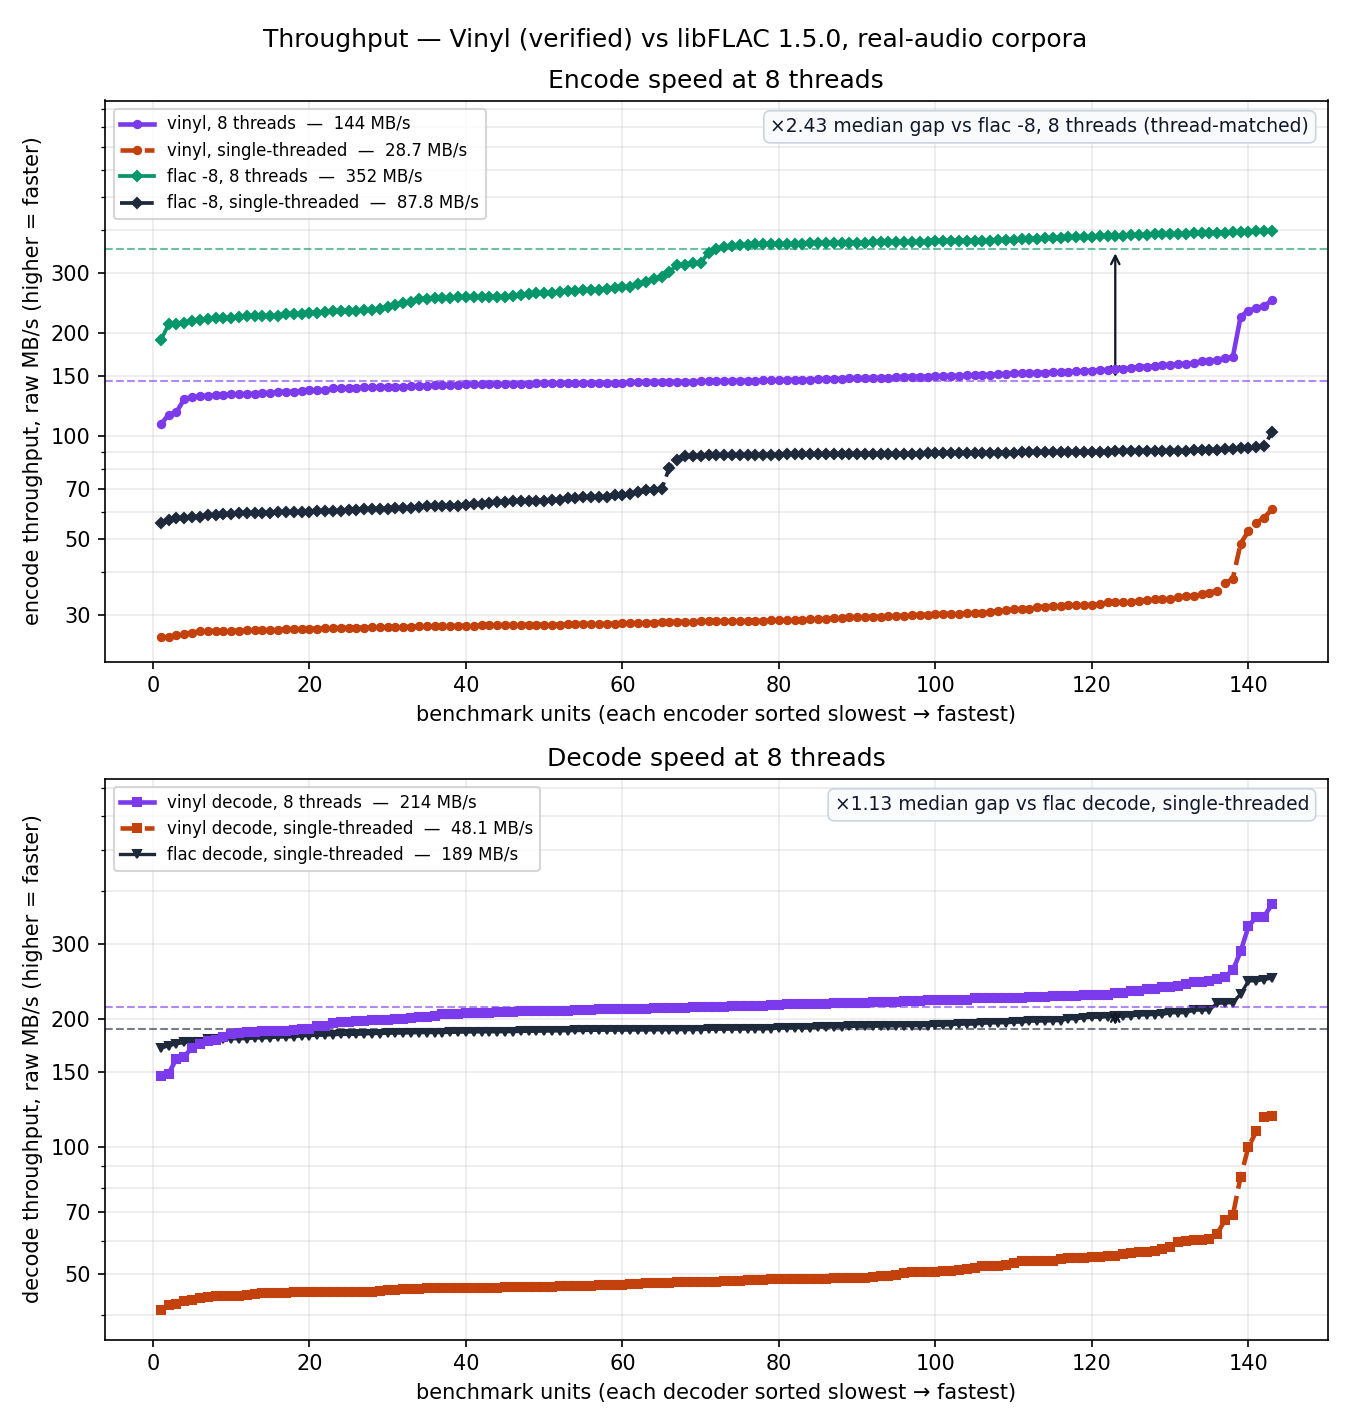
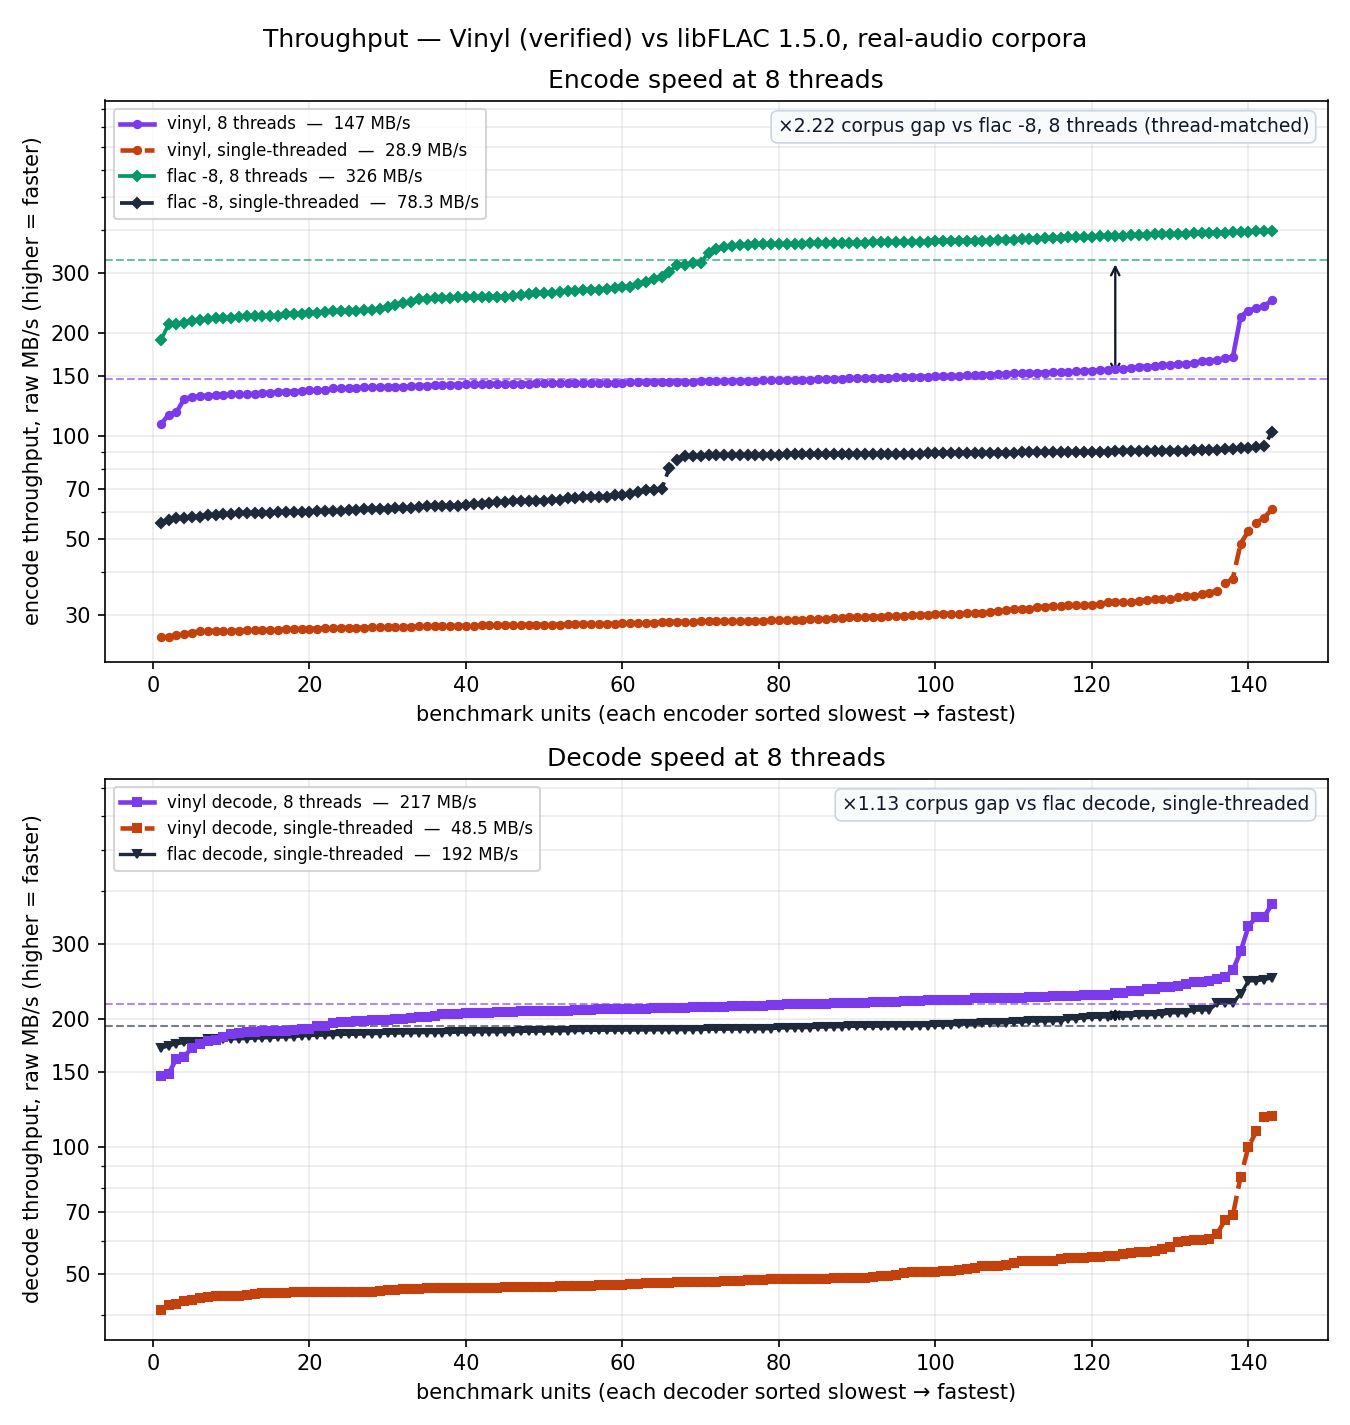
One throughput accounting: corpus rate everywhere
The session-14 headline quoted the real-audio encode gap as 2.43x while every
table in the same commit quoted 2.22x.  Both were correct and both were
labelled, but they are different aggregations of the same CSV -- corpus rate
(total raw MB / total seconds) against per-unit median -- and the headline
alternated between them.  Corpus rate wins: unit boundaries are a corpus
construction choice (one unit per SQAM track, one per LibriSpeech speaker), so a
median headline inherits how the corpus was cut up; corpus rate is also the wall
clock, and already what the thread-scaling tables and the M6 ratchet use.

The two diverge because libFLAC's per-unit spread is twice Vinyl's and
left-skewed (median 351.5 above mean 313.8 MB/s), so its corpus rate sits 7%
under its median while Vinyl's sits 2% over.

- both plot scripts: dashed levels, arrow, caption and legend entries are corpus
  rates; captions read "corpus gap"
- bench/README.md: new "Which gap is quoted" section; "median" now appears only
  for repetition medians, unit sizes and ratio medians, each labelled
- README.md: per-quantile claims are now x2.2 at eight threads and x2.7 at one
  (were median-unit x2.4 / x3.1); decode x1.13; per-core encode ~2.7x
- all four figures regenerated from the committed CSVs, no re-benchmark, so the
  diff is accounting-only

Under one accounting the 2x goal on real audio needs 1.11x, not 1.22x.  No Lean
source touched; lake build clean, flactest 102 checks pass.
[…]

Changed region(s): [[0.7778, 0.0618, 0.9644, 0.0926], [0.56, 0.0618, 0.7467, 0.0926], [0.6222, 0.5558, 0.7156, 0.5867]]

diff --git a/bench/real_plot.py b/bench/real_plot.py
@@ -20,7 +20,6 @@ import csv
 import math
 import os
 import re
-import statistics
 import sys
 from collections import defaultdict
 
@@ -187,7 +186,7 @@ def throughput_panel(ax, jobs, kind, gap_pair, gap_note=""):
         ax.plot(range(1, len(ys) + 1), ys, ms=3.5, **job_style(family, count),
                 label=f"{family}, "
                       f"{'single-threaded' if count == 1 else f'{count} threads'}"
-                      f"  —  {statistics.median(ys):.3g} MB/s",
+                      f"  —  {corpus_speed((family, count)):.3g} MB/s",
                 ls="-" if count == max(threadsets[family]) else "--")
     ax.set_xlabel(f"benchmark units (each {kind}r sorted slowest → fastest)")
     ax.set_ylabel(f"{kind} throughput, raw MB/s (higher = faster)")
@@ -201,15 +200,22 @@ def throughput_panel(ax, jobs, kind, gap_pair, gap_note=""):
     ax.yaxis.set_minor_formatter(NullFormatter())
     lo, hi = gap_pair
     if lo in speed and hi in speed:
-        lo_med = statistics.median(speed[lo])
-        hi_med = statistics.median(speed[hi])
-        for med, job in ((lo_med, lo), (hi_med, hi)):
-            ax.axhline(med, color=job_style(*job)["color"], ls="--", lw=1, alpha=0.6)
+        # One accounting everywhere: the dashed levels, the legend, the arrow
+        # and every table are corpus rates — total raw MB ÷ total seconds.  The
+        # per-unit median is *not* used, because unit boundaries are a corpus
+        # construction choice (one per SQAM track, one per LibriSpeech speaker)
+        # and a headline number must not depend on it.  A corpus rate weights
+        # each unit by the time it takes, so on a spread-out curve it sits
+        # below the visual centre; that offset is real, not a plotting error.
+        lo_rate = corpus_speed(lo)
+        hi_rate = corpus_speed(hi)
+        for rate, job in ((lo_rate, lo), (hi_rate, hi)):
+            ax.axhline(rate, color=job_style(*job)["color"], ls="--", lw=1, alpha=0.6)
         x = n * 0.86
-        ax.annotate("", xy=(x, hi_med), xytext=(x, lo_med),
+        ax.annotate("", xy=(x, hi_rate), xytext=(x, lo_rate),
                     arrowprops=dict(arrowstyle="<->", color="#111827", lw=1.1))
         ax.text(0.985, 0.97,
-                f"×{max(hi_med, lo_med) / min(hi_med, lo_med):.2f} median gap vs "
+                f"×{max(hi_rate, lo_rate) / min(hi_rate, lo_rate):.2f} corpus gap vs "
                 f"{hi[0]}, "
                 f"{'single-threaded' if hi[1] == 1 else f'{hi[1]} threads'}"
                 f"{gap_note}",

diff --git a/bench/plot.py b/bench/plot.py
@@ -22,7 +22,6 @@ import csv
 import math
 import os
 import re
-import statistics
 import sys
 from collections import defaultdict
 
@@ -164,7 +163,7 @@ def throughput_panel(ax, jobs, kind, gap_pair, gap_note=""):
         ax.plot(range(1, len(ys) + 1), ys, ms=4, **job_style(family, count),
                 label=f"{family}, "
                       f"{'single-threaded' if count == 1 else f'{count} threads'}"
-                      f"  —  {statistics.median(ys):.3g} MB/s",
+                      f"  —  {corpus_speed((family, count)):.3g} MB/s",
                 ls="-" if count == max(threadsets[family]) else "--")
     ax.set_xlabel(f"files (each {kind}r sorted slowest → fastest)")
     ax.set_ylabel(f"{kind} throughput, raw MB/s (higher = faster)")
@@ -178,15 +177,22 @@ def throughput_panel(ax, jobs, kind, gap_pair, gap_note=""):
     ax.yaxis.set_minor_formatter(NullFormatter())
     lo, hi = gap_pair
     if lo in speed and hi in speed:
-        lo_med = statistics.median(speed[lo])
-        hi_med = statistics.median(speed[hi])
-        for med, job in ((lo_med, lo), (hi_med, hi)):
-            ax.axhline(med, color=job_style(*job)["color"], ls="--", lw=1, alpha=0.6)
+        # One accounting everywhere: the dashed levels, the legend, the arrow
+        # and every table are corpus rates — total raw MB ÷ total seconds.  The
+        # per-file median is *not* used, because the file split is a generator
+        # parameter here (1 MB apiece) and a headline number must not depend on
+        # it.  A corpus rate weights each file by the time it takes, so on a
+        # spread-out curve it sits below the visual centre of the curve; that
+        # offset is real, not a plotting error.
+        lo_rate = corpus_speed(lo)
+        hi_rate = corpus_speed(hi)
+        for rate, job in ((lo_rate, lo), (hi_rate, hi)):
+            ax.axhline(rate, color=job_style(*job)["color"], ls="--", lw=1, alpha=0.6)
         x = n * 0.86
-        ax.annotate("", xy=(x, hi_med), xytext=(x, lo_med),
+        ax.annotate("", xy=(x, hi_rate), xytext=(x, lo_rate),
                     arrowprops=dict(arrowstyle="<->", color="#111827", lw=1.1))
         ax.text(0.985, 0.97,
-                f"×{max(hi_med, lo_med) / min(hi_med, lo_med):.2f} median gap vs "
+                f"×{max(hi_rate, lo_rate) / min(hi_rate, lo_rate):.2f} corpus gap vs "
                 f"{hi[0]}, "
                 f"{'single-threaded' if hi[1] == 1 else f'{hi[1]} threads'}"
                 f"{gap_note}",

diff --git a/bench/README.md b/bench/README.md
@@ -48,6 +48,53 @@ Nothing here is a proof claim. What is proven is that the codec is lossless and
 that its fast paths compute their specifications; speed and ratio are measured,
 and are what the rest of this file is about.
 
+### Which gap is quoted
+
+**One accounting, everywhere: corpus rate — total raw MB ÷ total seconds.** It
+is what every table, every figure's dashed levels and legend, and every prose
+"×N" in this file report, so any two numbers here are comparable without
+checking which is which.
+
+The alternative is the *per-unit median*: sort the units by throughput, take the
+middle one, divide. It is not used, and the difference is not cosmetic — on real
+audio at eight threads it reads ×2.43 where the corpus rate reads ×2.22:
+
+| encode, 8 threads | vinyl | `flac -8` | gap |
+|---|---:|---:|---:|
+| corpus rate, ΣMB ÷ Σs | 146.9 MB/s | 326.2 MB/s | **2.22×** |
+| per-unit median | 144.5 MB/s | 351.5 MB/s | 2.43× |
+| per-unit mean | 148.2 MB/s | 313.8 MB/s | 2.12× |
+| coefficient of variation | 0.13 | 0.21 | |
+
+A corpus rate is a harmonic mean weighted by bytes, so it is pulled toward the
+units that take the longest; a median weights every unit alike. The two agree
+when a distribution is tight and diverge when it is not, and libFLAC's is twice
+as spread as Vinyl's here — its median sits *above* its mean, a left tail of
+slow units. Those slow units are the SQAM stereo tracks, which is also where
+Vinyl is least far behind (1.71× on that suite against 2.58× and 2.61× on the
+two LibriSpeech ones), so equal-per-unit weighting flatters Vinyl by ~10%.
+
+Corpus rate wins the tie for three reasons, in order of weight:
+
+1. **Unit boundaries are a corpus construction choice.** SQAM is one unit per
+   track; LibriSpeech is concatenated per *speaker*
+   ([what a benchmark unit is](#what-a-benchmark-unit-is)). Regroup the same
+   audio differently and the median gap moves while the corpus gap barely does.
+   A headline must not depend on how the corpus was cut up.
+2. **It is the wall clock.** Encoding this corpus really does take 2.22× longer.
+3. **It is already the ratchet.** The thread-scaling tables, the parallel
+   speedup figures and the M6 targets in `PROGRESS.md` are all corpus rates.
+
+Per-unit medians are still worth reading — for *ratio*, where the median unit
+says something the byte-weighted total hides, and as the distribution context
+the throughput figures are for. They are labelled "median unit" wherever they
+appear. A bare "×N" in this file is always a corpus rate.
+
+Two other things called "median" here are unrelated to either: each case is run
+several times and the **median repetition** is what lands in the CSV
+([how the real suite is measured](#how-the-real-suite-is-measured)), and the
+size sweep in Part 3 reports medians across its repetitions too.
+
 ## The two suites
 
 | suite | material | units | raw PCM | what it is for |
@@ -152,8 +199,9 @@ column back when the payload total was 39.6%. See
 
 **Top** — encode. **Bottom** — decode (the shipped buffered decoder). Per-file
 throughput on a log scale, sorted slowest→fastest per implementation; dashed
-horizontal lines mark the two medians the arrow spans, and every legend entry
-carries its thread count. Each implementation is drawn **twice**, in its own
+horizontal lines mark the two **corpus rates** the arrow spans — the same
+total-raw-MB ÷ total-seconds accounting as every table here — and every legend
+entry carries its thread count and its corpus rate. Each implementation is drawn **twice**, in its own
 colour — at eight threads and at one — so the per-thread gap is legible
 straight off the figure: Vinyl's single-threaded encode curve sits at the
 bottom, about 4× below `flac -8`'s. The `-0` and `-5` presets are compression
@@ -170,7 +218,7 @@ parallel speedup against the ideal line.
 
 ![Scaling with thread count](threads.png)
 
-Fifteen-run medians aggregated to corpus totals, 2026-08-24:
+Fifteen-run repetition medians, aggregated to corpus totals, 2026-08-24:
 
 | threads | vinyl encode | `flac -8` encode | encode gap | vinyl decode | `flac` decode | decode gap |
 |---:|---|---|---|---|---|---|
@@ -197,9 +245,9 @@ Part 2, or the 32 MB probe in Part 3, for judging a change.
 
 ### Throughput against file size
 
-Same material, medians, single-threaded libFLAC against all-core Vinyl — a
-comparison this table predates the correction of, kept because the *shape* is
-what it is for:
+Same material, repetition medians, single-threaded libFLAC against all-core
+Vinyl — a comparison this table predates the correction of, kept because the
+*shape* is what it is for:
 
 | PCM | Vinyl decode | libFLAC | gap | Vinyl encode | `flac -8` | gap |
 |---|---|---|---|---|---|---|
@@ -310,7 +358,9 @@ scripts, the figures, `real_results.csv` and `real_summary.md`.
 Timing is the same instrument as Part 1: one persistent Python parent holding a
 `perf_counter_ns`, one untimed warmup per case, then `BENCH_RUNS` measured runs
 whose order is shuffled with a fixed seed so no implementation keeps the same
-thermal and cache position. The reported number is the median. Correctness
+thermal and cache position. The reported number is the median across those
+repetitions — not a median across units, which this suite never quotes as a
+gap. Correctness
 checks run outside every timed interval.
 
 Three things differ from the synthetic suite, each because real audio made them
@@ -388,8 +438,10 @@ rather than an accounting preference.
 ### Speed
 
 Per-unit throughput, log scale, sorted slowest→fastest per implementation; a
-curve that sits higher is faster. Dashed horizontal lines mark the two medians
-the arrow spans, and every legend entry carries its thread count. Each
+curve that sits higher is faster. Dashed horizontal lines mark the two
+**corpus rates** the arrow spans, and every legend entry carries its thread
+count and its corpus rate — one accounting across figures, tables and prose
+(see [which gap is quoted](#which-gap-is-quoted)). Each
 implementation is drawn **twice**, in its own colour — at eight threads and at
 one — so the per-thread comparison and the thread-matched one are both on the
 same axes. `flac -5` is compression context and is tabulated below rather than
@@ -438,8 +490,8 @@ Reading the wall-clock comparisons in order of how much they are worth:
 
 - **Per core, encode is 2.7× behind and decode 3.9× behind.** The honest
   per-operation numbers.
-- **Thread-matched at eight, encode is 2.2× behind** (147 vs 326 MB/s), and
-  ×2.43 on the median unit. Vinyl is faster on **0 of 143** units.
+- **Thread-matched at eight, encode is 2.2× behind** (147 vs 326 MB/s).
+  Vinyl is faster on **0 of 143** units.
 - **Against single-threaded `flac -5`, encode is now slightly ahead** at eight
   threads (147 vs 142 MB/s) — but `flac -5` still compresses better, so there
   is still no libFLAC preset Vinyl beats on both axes.
@@ -722,7 +774,7 @@ init, not decoding. Decode work now divides as: the Rice reader ~43%
 because it is the proven path and `Int → Int64` conversion per tap would
 cost what it saves), `crc16` 6%, serialization ~9%, array pushes ~3%.
 
-Compare medians only *within the same run*; machine load and thermal state
+Compare corpus rates only *within the same run*; machine load and thermal state
 move absolute throughput, which is why every figure plots both codecs
 together and interleaves their measurements. And never against a dashboard
 from the pre-2026-08-23 harness — see

diff --git a/PROGRESS.md b/PROGRESS.md
@@ -1750,3 +1750,64 @@ Closing the remaining 1.22× plausibly needs a different kind of change than
 micro-optimisation — fewer passes over the block, or a cheaper search — and
 each further ratio-for-speed trade costs compression that is already 5% behind
 `flac -8`.
+
+## 2026-08-24 — Session 15: one throughput accounting across figures and prose
+
+**Attempted:** resolve a reporting inconsistency, not a performance one. The
+session-14 headline quoted the real-audio encode gap as **2.43×** while every
+table in the same commit quoted **2.22×**. Both were correct and both were
+labelled, but they are different aggregations of the same CSV and the headline
+alternated between them:
+
+| encode, 8 threads | vinyl | `flac -8` | gap |
+|---|---:|---:|---:|
+| corpus rate, ΣMB ÷ Σs | 146.9 MB/s | 326.2 MB/s | 2.22× |
+| per-unit median | 144.5 MB/s | 351.5 MB/s | 2.43× |
+| per-unit mean | 148.2 MB/s | 313.8 MB/s | 2.12× |
+| coefficient of variation | 0.13 | 0.21 | |
+
+They diverge because the dispersion is asymmetric. A corpus rate is a
+byte-weighted harmonic mean, so it is pulled toward the units that take the
+longest; libFLAC's per-unit spread is twice Vinyl's and left-skewed (median
+351.5 *above* mean 313.8), which puts its corpus rate 7% under its median while
+Vinyl's sits 2% over. Those two shifts multiply to exactly the discrepancy:
+2.22 × (351.5/326.2) × (146.9/144.5) = 2.43. The slow-for-libFLAC units are the
+SQAM stereo tracks, which is also where Vinyl is least far behind (1.71× on
+that suite against 2.58× / 2.61× on the two LibriSpeech ones), so per-unit
+weighting flatters Vinyl by ~10%.
+
+**Landed — corpus rate is the one quoted number:**
+
+- `bench/plot.py` and `bench/real_plot.py`: the throughput panels' dashed
+  levels, arrow, caption and legend entries are now corpus rates, replacing
+  per-unit medians. The captions read "corpus gap"; `statistics` is no longer
+  imported by either script. Both scripts carry a comment on why, including
+  that the level sits below the visual centre of a spread-out curve by design.
+- `bench/README.md`: new [Which gap is quoted](bench/README.md#which-gap-is-quoted) section with
+  the table above and the three reasons corpus rate wins — chiefly that unit
+  boundaries are a corpus construction choice (one unit per SQAM track, one per
+  LibriSpeech *speaker*), so a median headline would inherit how the corpus was
+  cut up. The word "median" now appears only for repetition medians, unit
+  sizes, and *ratio* medians, each labelled as such; the throughput reading
+  lists no longer carry a second gap figure.
+- `README.md`: the figure caption says corpus rates; the per-quantile claim is
+  now ×2.2 at eight threads and ×2.7 at one (was ×2.4 / ×3.1, which were
+  median-unit figures); decode ×1.13; per-core encode ~2.7×.
+- All four figures regenerated **from the committed CSVs** — no re-benchmark,
+  deliberately, so the diff is accounting-only and cannot be confused with a
+  measurement change. Every published throughput number is unchanged except the
+  ones that were per-unit medians.
+
+**Convention from here:** a bare "×N" in benchmark prose is a corpus rate.
+Per-unit medians stay available as distribution context and for compression,
+always labelled "median unit". The M6 target is a corpus-rate target.
+
+**Against the 2× goal that reading changes:** real audio is **2.22×**, not
+2.43×, so the remaining factor is **1.11×** rather than 1.22×. The work items
+from session 14 are unchanged and unranked by this — `pushRiceRange` (~11%),
+`FloatArray` construction (~8%), `fixedFoldTail` (~7%), `acorr3` (~6%) — but
+1.11× is within reach of two of them landing, where 1.22× was not.
+
+**Not blocked; no proof debt.** No Lean source touched this session, so
+`scripts/check.sh` state is session 14's: green, `fast == verified`
+byte-for-byte, libFLAC `-8` cross-decodes, `flac -t` accepts.

diff --git a/README.md b/README.md
@@ -175,8 +175,8 @@ LibriSpeech recordings, no synthetic signals. Log scale; each implementation's
 units are sorted slowest→fastest, so a curve that sits higher is faster, and
 each is drawn twice — at eight threads and at one — so the per-thread and the
 thread-matched comparison are on the same axes. Dashed lines and legend figures
-are per-unit *medians* (the tables above are corpus totals, which weight by
-size). **Top** — encode. **Bottom** — decode, the shipped buffered decoder.
+are corpus rates, the same total-raw-MB ÷ total-seconds accounting as the tables
+above. **Top** — encode. **Bottom** — decode, the shipped buffered decoder.
 
 ![Throughput vs libFLAC on real audio](bench/real_performance.png)
 
@@ -184,16 +184,15 @@ What the curves say:
 
 - **The gap is a constant factor, not a content effect.** Every curve is
   essentially flat across 143 units of very different material — orchestra,
-  solo instrument, clean and noisy speech — so the ×2.4 encode gap at eight
-  threads and the ×3.1 gap at one hold on the median unit and at essentially
-  every quantile. The upturn at the right edge is the handful of artificial and
+  solo instrument, clean and noisy speech — so the ×2.2 encode gap at eight
+  threads and the ×2.7 gap at one hold at essentially every quantile, not just
+  in aggregate. The upturn at the right edge is the handful of artificial and
   alignment units, where all implementations speed up together.
 - **Decode at eight threads is the one place Vinyl is ahead on wall clock.**
-  Its curve sits above `flac -d`'s over almost the whole corpus — ×1.14 on the
-  median unit, 217 MB/s against 192 MB/s on corpus totals — and libFLAC has
-  nothing to answer with: its decoder takes no `-j`, which is why it appears
-  once rather than twice.
-- **Per core it is ~3.1× behind on encode and ~3.9× on decode** — the
+  Its curve sits above `flac -d`'s over almost the whole corpus — ×1.13,
+  217 MB/s against 192 MB/s — and libFLAC has nothing to answer with: its
+  decoder takes no `-j`, which is why it appears once rather than twice.
+- **Per core it is ~2.7× behind on encode and ~3.9× on decode** — the
   single-thread curves sit a near-constant distance below libFLAC's on both
   panels. Two comparable factors rather than one bad path points at
   per-operation cost, pure Lean against `int32` SIMD.
